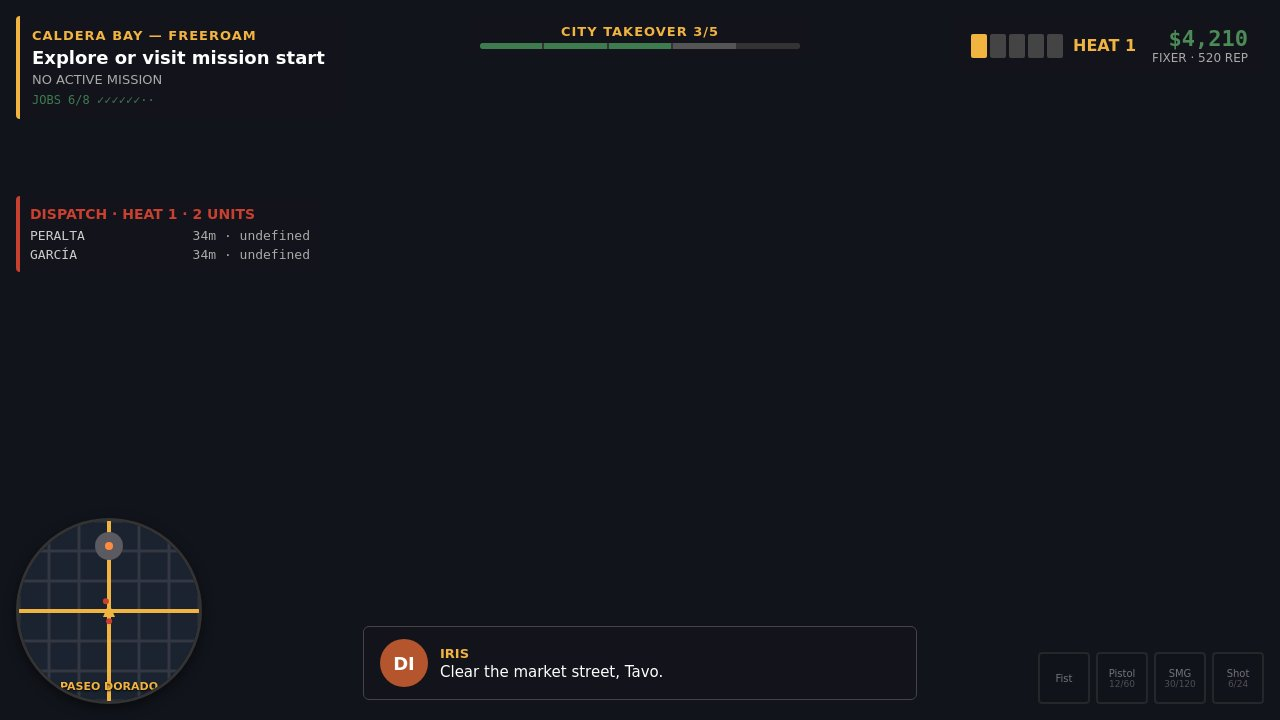
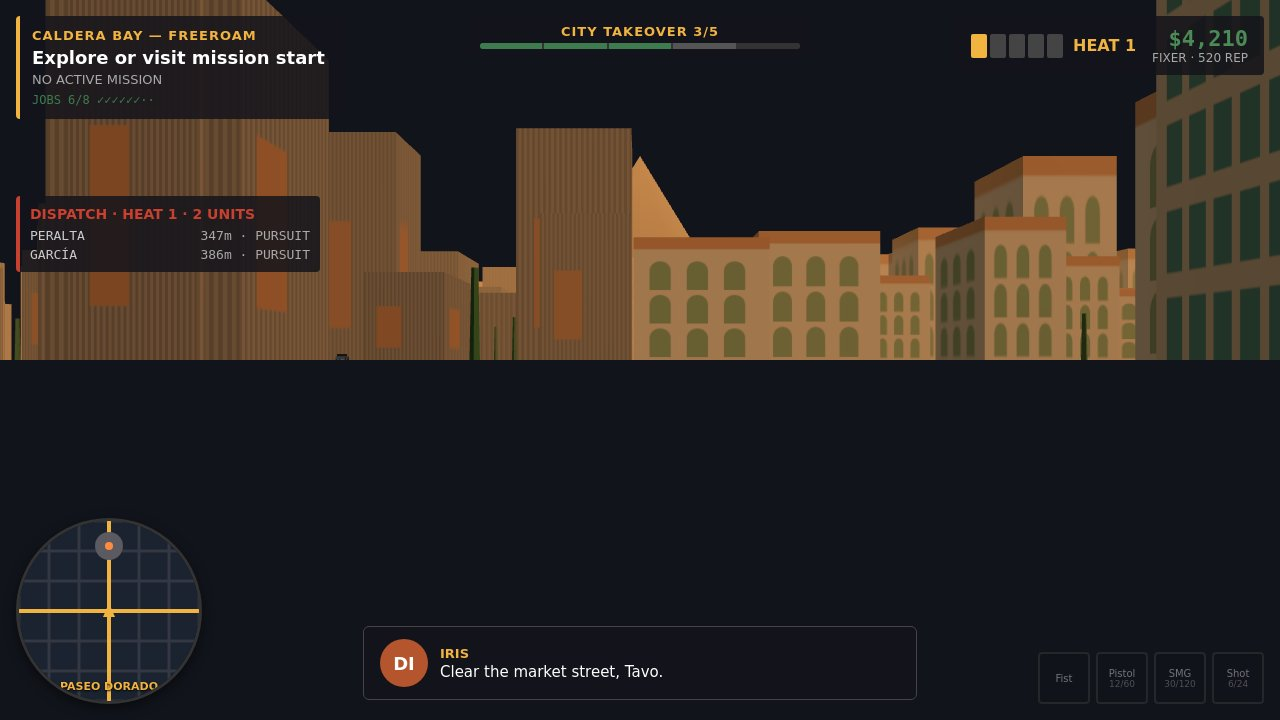
C4c: screenshots show the world (capture fix), dispatch tactics, M7 cover staging

Changed region(s): [[0.0, 0.0, 1.0, 0.5194], [0.0312, 0.0, 0.2188, 0.0306]]

diff --git a/game/main.js b/game/main.js
@@ -452,6 +452,7 @@ window.addEventListener('load', () => {
   if (shot) {
     if (shot === 'cover') {
       window.__photo.loadCanonical({ seed: 77, ticks: 90, force: { missionIndex: 6, heat: 110, panels: 'cover', event: { text: 'ROADBLOCK AHEAD', time: 1 } } });
+      missions.forceStage(6, 2);
       window.__calderaTest.stageCover();
       window.__photo.setCamera([256, 4.5, -114], [256, 1.5, -134], 55);
     } else if (shot === 'onfoot') {
@@ -571,7 +572,7 @@ window.__calderaTest = {
     return computeStateHash();
   },
   stageCover() {
-    const spec = getVehicleSpec('zorro-gt');
+    const spec = getVehicleSpec('zorro');
     const mesh = createCarMesh('zorro-gt');
     scene.add(mesh);
     player.car = {
@@ -598,11 +599,15 @@ window.__calderaTest = {
     police.forceRoadblock([256, -220], 0);
   },
   coverAudit() {
+    const job = missions.currentObjective();
     return {
       unitCount: police.units.length,
       heat: police.heat,
       carPos: player.car ? [player.car.x, player.car.z] : null,
-      units: police.units.map(u => ({ x: u.x, z: u.z }))
+      units: police.units.map(u => ({ x: u.x, z: u.z })),
+      jobActive: job ? (job.jobLabel === 'SKY EYE' && job.stageIndex === 1) : false,
+      heroSpec: player.car ? player.car.spec.name : null,
+      speed: player.car ? Math.abs(player.car.speed * 3.6) : 0
     };
   },
   modules() {

diff --git a/game/police.js b/game/police.js
@@ -101,6 +101,13 @@ export function createPolice(scene) {
         if (idx < targetCount) {
           u.active = true;
           u.mesh.visible = true;
+
+          // Assign tactic based on heat and index
+          if (heat === 1) u.tactic = TACTICS[1];
+          else if (heat === 2) u.tactic = (idx < 2) ? TACTICS[1] : TACTICS[2];
+          else if (heat === 3) u.tactic = (idx < 2) ? TACTICS[1] : (idx < 4) ? TACTICS[2] : TACTICS[3];
+          else if (heat >= 4) u.tactic = (idx < 2) ? TACTICS[1] : (idx < 4) ? TACTICS[2] : (idx < 6) ? TACTICS[3] : TACTICS[4];
+
           if (!u.x && !u.z) {
             const angle = Math.random() * Math.PI * 2;
             u.x = playerPos.x + Math.sin(angle) * 40;
@@ -120,6 +127,7 @@ export function createPolice(scene) {
         } else {
           u.active = false;
           u.mesh.visible = false;
+          u.tactic = undefined;
         }
       });
     }

diff --git a/game/hud.js b/game/hud.js
@@ -351,7 +351,7 @@ export function createHud(ctx, hudRoot) {
       if (obj) {
         updateText('hp-job', `JOB ${save.missionIndex + 1}/8 — ${obj.jobLabel}`);
         updateText('hp-obj', obj.objective);
-        updateText('hp-stage', `STAGE ${obj.stageIndex + 1}/${obj.totalStages} · NEXT: ${obj.next}`);
+        updateText('hp-stage', `${obj.stageLabel} · NEXT: ${obj.next}`);
         const timerEl = document.getElementById('hp-timer');
         if (obj.timer !== undefined) {
           timerEl.style.display = 'block';
